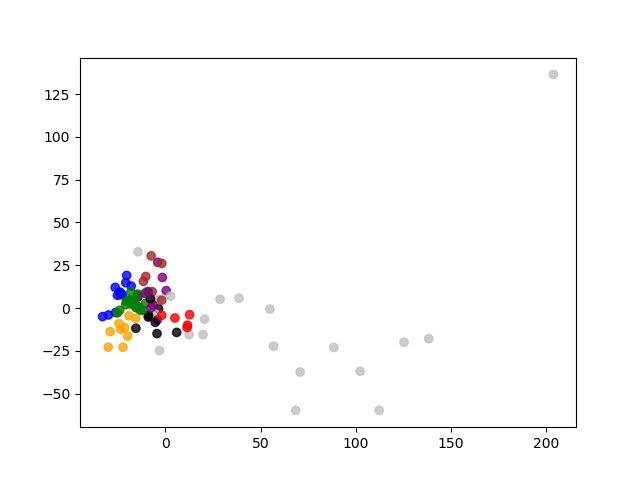
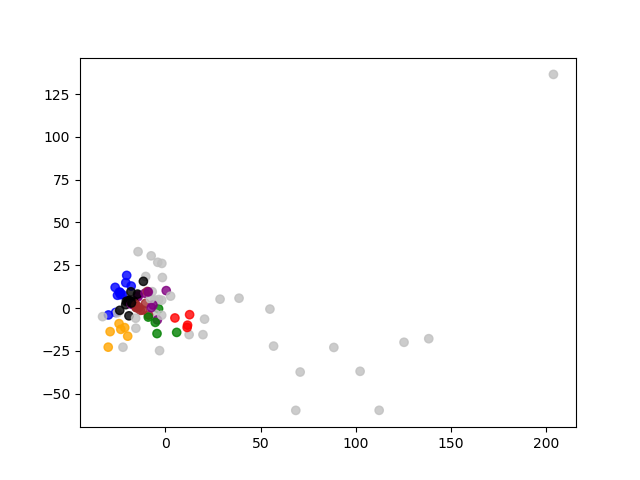
[k-means] Added the gaussian dataset code. + Added kmeans plus plus outliers code.

Changed region(s): [[0.1562, 0.5, 0.2812, 0.75]]

diff --git a/ls_outliers.py b/ls_outliers.py
@@ -10,6 +10,7 @@ from queue import PriorityQueue
 import pandas as pd
 import matplotlib.pyplot as plt
 import numpy as np
+import random
 
 
 #Z: is the set of outliers.
@@ -37,9 +38,66 @@ def visualize(C, X, u_dict, f_i):
     plt.figure(f_i)
     plt.scatter(x_modified[:, 0], x_modified[:, 1], c=colors, alpha=0.8)
     plt.savefig('plt.png')
-    plt.show()
+    #plt.show()
 
-#TODO: check this function.
+def binary_search(arr, l, r, x):
+    if l == r-1:
+        d1 = x - 1
+        d2 = r - x
+        if d1 > d2:
+            return r
+        else:
+            return l
+    mid = l + (r - l) / 2
+    if arr[mid] == x:
+        return mid
+    elif arr[mid] > x:
+        return binary_search(arr, l, mid - 1, x)
+    else:
+        return binary_search(arr, mid + 1, r, x)
+
+
+def outliers_kmeansplusplus(C, U, U_data, Z, z, u_dict):
+    U_prime = U - Z
+    outliers = set()
+
+    distances = np.zeros((len(U_prime), 2))
+    distances_cdf = np.zeros(distances.shape[0])
+    counter = 0
+    for i in U_prime:
+        c = C.pop()
+        C.add(c)
+        min_d = distance_sq(U_data[c], U_data[i])
+        min_c = c
+        if i not in C:
+            for center in C:
+                d = distance_sq(U_data[i], U_data[center])
+                if d < min_d:
+                    min_d = d
+                    min_c = center
+            if counter == 0:
+                distances_cdf[counter] = min_d
+            else:
+                distances_cdf[counter] = distances_cdf[counter-1] + min_d
+            distances[counter, 0] = min_d
+            distances[counter, 1] = i
+            counter += 1
+
+    for i in range(z):
+        val = random.randint(distances_cdf[0], distances_cdf[-1])
+        idx = binary_search(distances_cdf, 0, len(distances_cdf), val)
+        outliers.add(distances[idx, 1])
+        np.delete(distances, idx, 0)
+
+        distances_cdf = np.zeros(distances.shape[0])
+        psum = 0
+        d_i = 0
+        for d in distances:
+            psum += d
+            distances_cdf[d_i] = psum
+
+    return outliers
+
 # This function returns the outliers and puts the key value for outliers to -1.
 def outliers_farthest(C, U, U_data, Z, z, u_dict):
     U_prime = U - Z
@@ -78,13 +136,16 @@ def ls_outlier(U_data, C, k, u_dict, z):
     U = set(i for i in range(U_data.shape[0]))
     Z = set()
     Z = outliers_farthest(C, U, U_data, Z, z, u_dict)
+    #outliers_kmeansplusplus(C, U, U_data, Z, z, u_dict)
     alpha = 1
     cost = cost_km(C, U-Z, U_data, u_dict)
     alpha = cost * 2
     visualize(C, U_data, u_dict, 0)
 
     counter = 0
-    while alpha*(1-(0.0001/k)) > cost:
+    # (1-(0.0001/k))
+    hyperparam = 0.85
+    while alpha*hyperparam > cost:
         counter += 1
         alpha = cost
 
@@ -143,8 +204,9 @@ def ls_outlier(U_data, C, k, u_dict, z):
                 print(str(i)+" done")
         #There is no need for C_prime. C containts the updated centers.
         print("LS_Outlier loop %d count %d" % (counter, len(Z_prime)))
+        # (1-(0.0001/k))
         val = alpha*(1-(0.0001/k))
-        if alpha*(1-(0.0001/k)) > cost:
+        if alpha*hyperparam > cost:
             C = C_prime.copy()
             Z = Z_prime.copy()
             u_dict = u_dict_prime.copy()

diff --git a/gaussiandataset.py b/gaussiandataset.py
@@ -1,0 +1,42 @@
+import numpy as np
+import matplotlib.pyplot as plt
+
+
+def normal_distribute(mu, sigma, count):
+    x = np.random.normal(mu, sigma, count)
+    x=x.reshape(-1, 1)
+    print(x.shape)
+    y = np.random.normal(mu, sigma, count)
+    y=y.reshape(-1, 1)
+    x=np.round(x)
+    y=np.round(y)
+    return x, y
+
+def create_dataset():
+    x1, y1 = normal_distribute(200, 100, 1000)
+    x2, y2 = normal_distribute(2000, 100, 1000)
+    x3, y3 = normal_distribute(1000, 100, 100)
+    x4, y4 = normal_distribute(1000, 1000, 100)
+
+    X = np.vstack((x1,x2))
+    X = np.vstack((X,x3))
+    X = np.vstack((X, x4))
+
+    Y = np.vstack((y1,y2))
+    Y = np.vstack((Y,y3))
+    Y = np.vstack((Y, y4))
+
+    #plt.scatter(X,Y)
+    #plt.show()
+    return np.hstack((X, Y))
+
+if __name__ == '__main__':
+    create_dataset()
+
+
+
+
+
+
+
+
